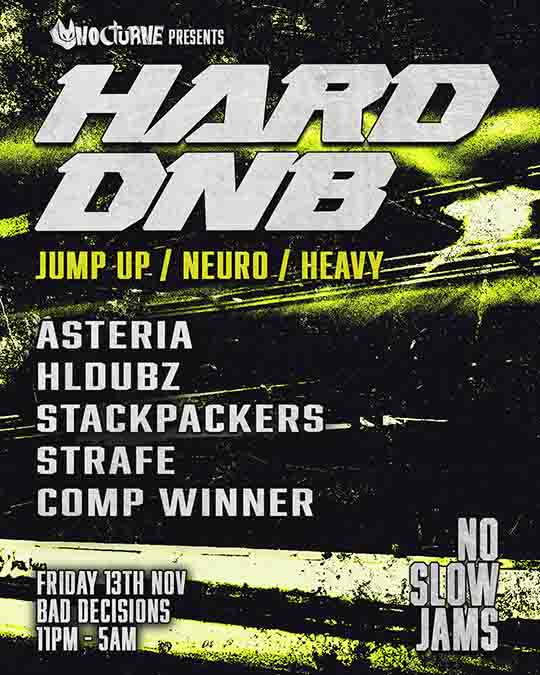
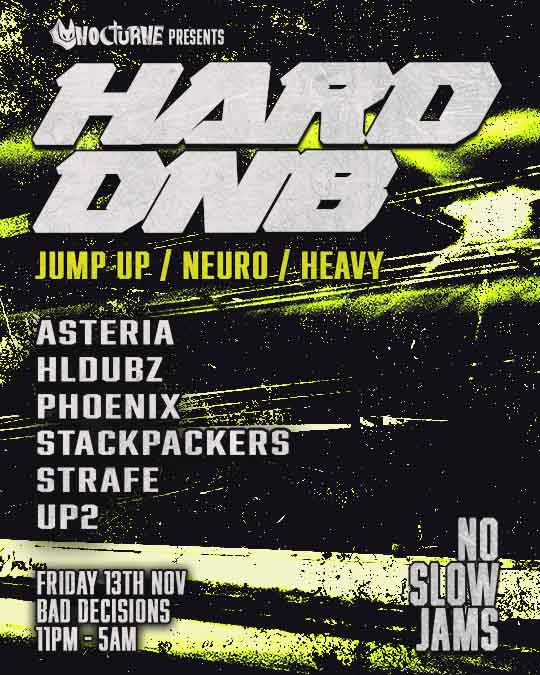
update graphics

diff --git a/src/components/Shows.tsx b/src/components/Shows.tsx
@@ -14,7 +14,7 @@ const shows = [
     {
         title: "3AM Crew Halloween Warehouse Rave, Melbourne Australia",
         href: "https://events.humanitix.com/3am-the-devil-made-me-do-it-underground-halloween-rave/tickets?discountcode=STACKPACKERS-3AM",
-        imgSrc: "/img/shows-artwork/3am_devil_made_me_do_it_halloween_rave_2026.jpg",
+        imgSrc: "/img/shows-artwork/3am_devil_made_me_do_it_halloween_rave_melbourne_2026.jpg",
         date: "2026-10-31",
     },
     {

diff --git a/src/components/Music.tsx b/src/components/Music.tsx
@@ -4,7 +4,7 @@ import { useEffect, useRef, useState } from "react";
 const artworks = [
     {
         title: "Stackpackers - Super Ghost EP",
-        href: "https://www.beatport.com/release/super-ghost-ep/7504571",
+        href: "https://hypeddit.com/stackpackers/superghost",
         imgSrc: "/img/music-artwork/stackpackers_super_ghost_ep.jpg"
     },
     {
